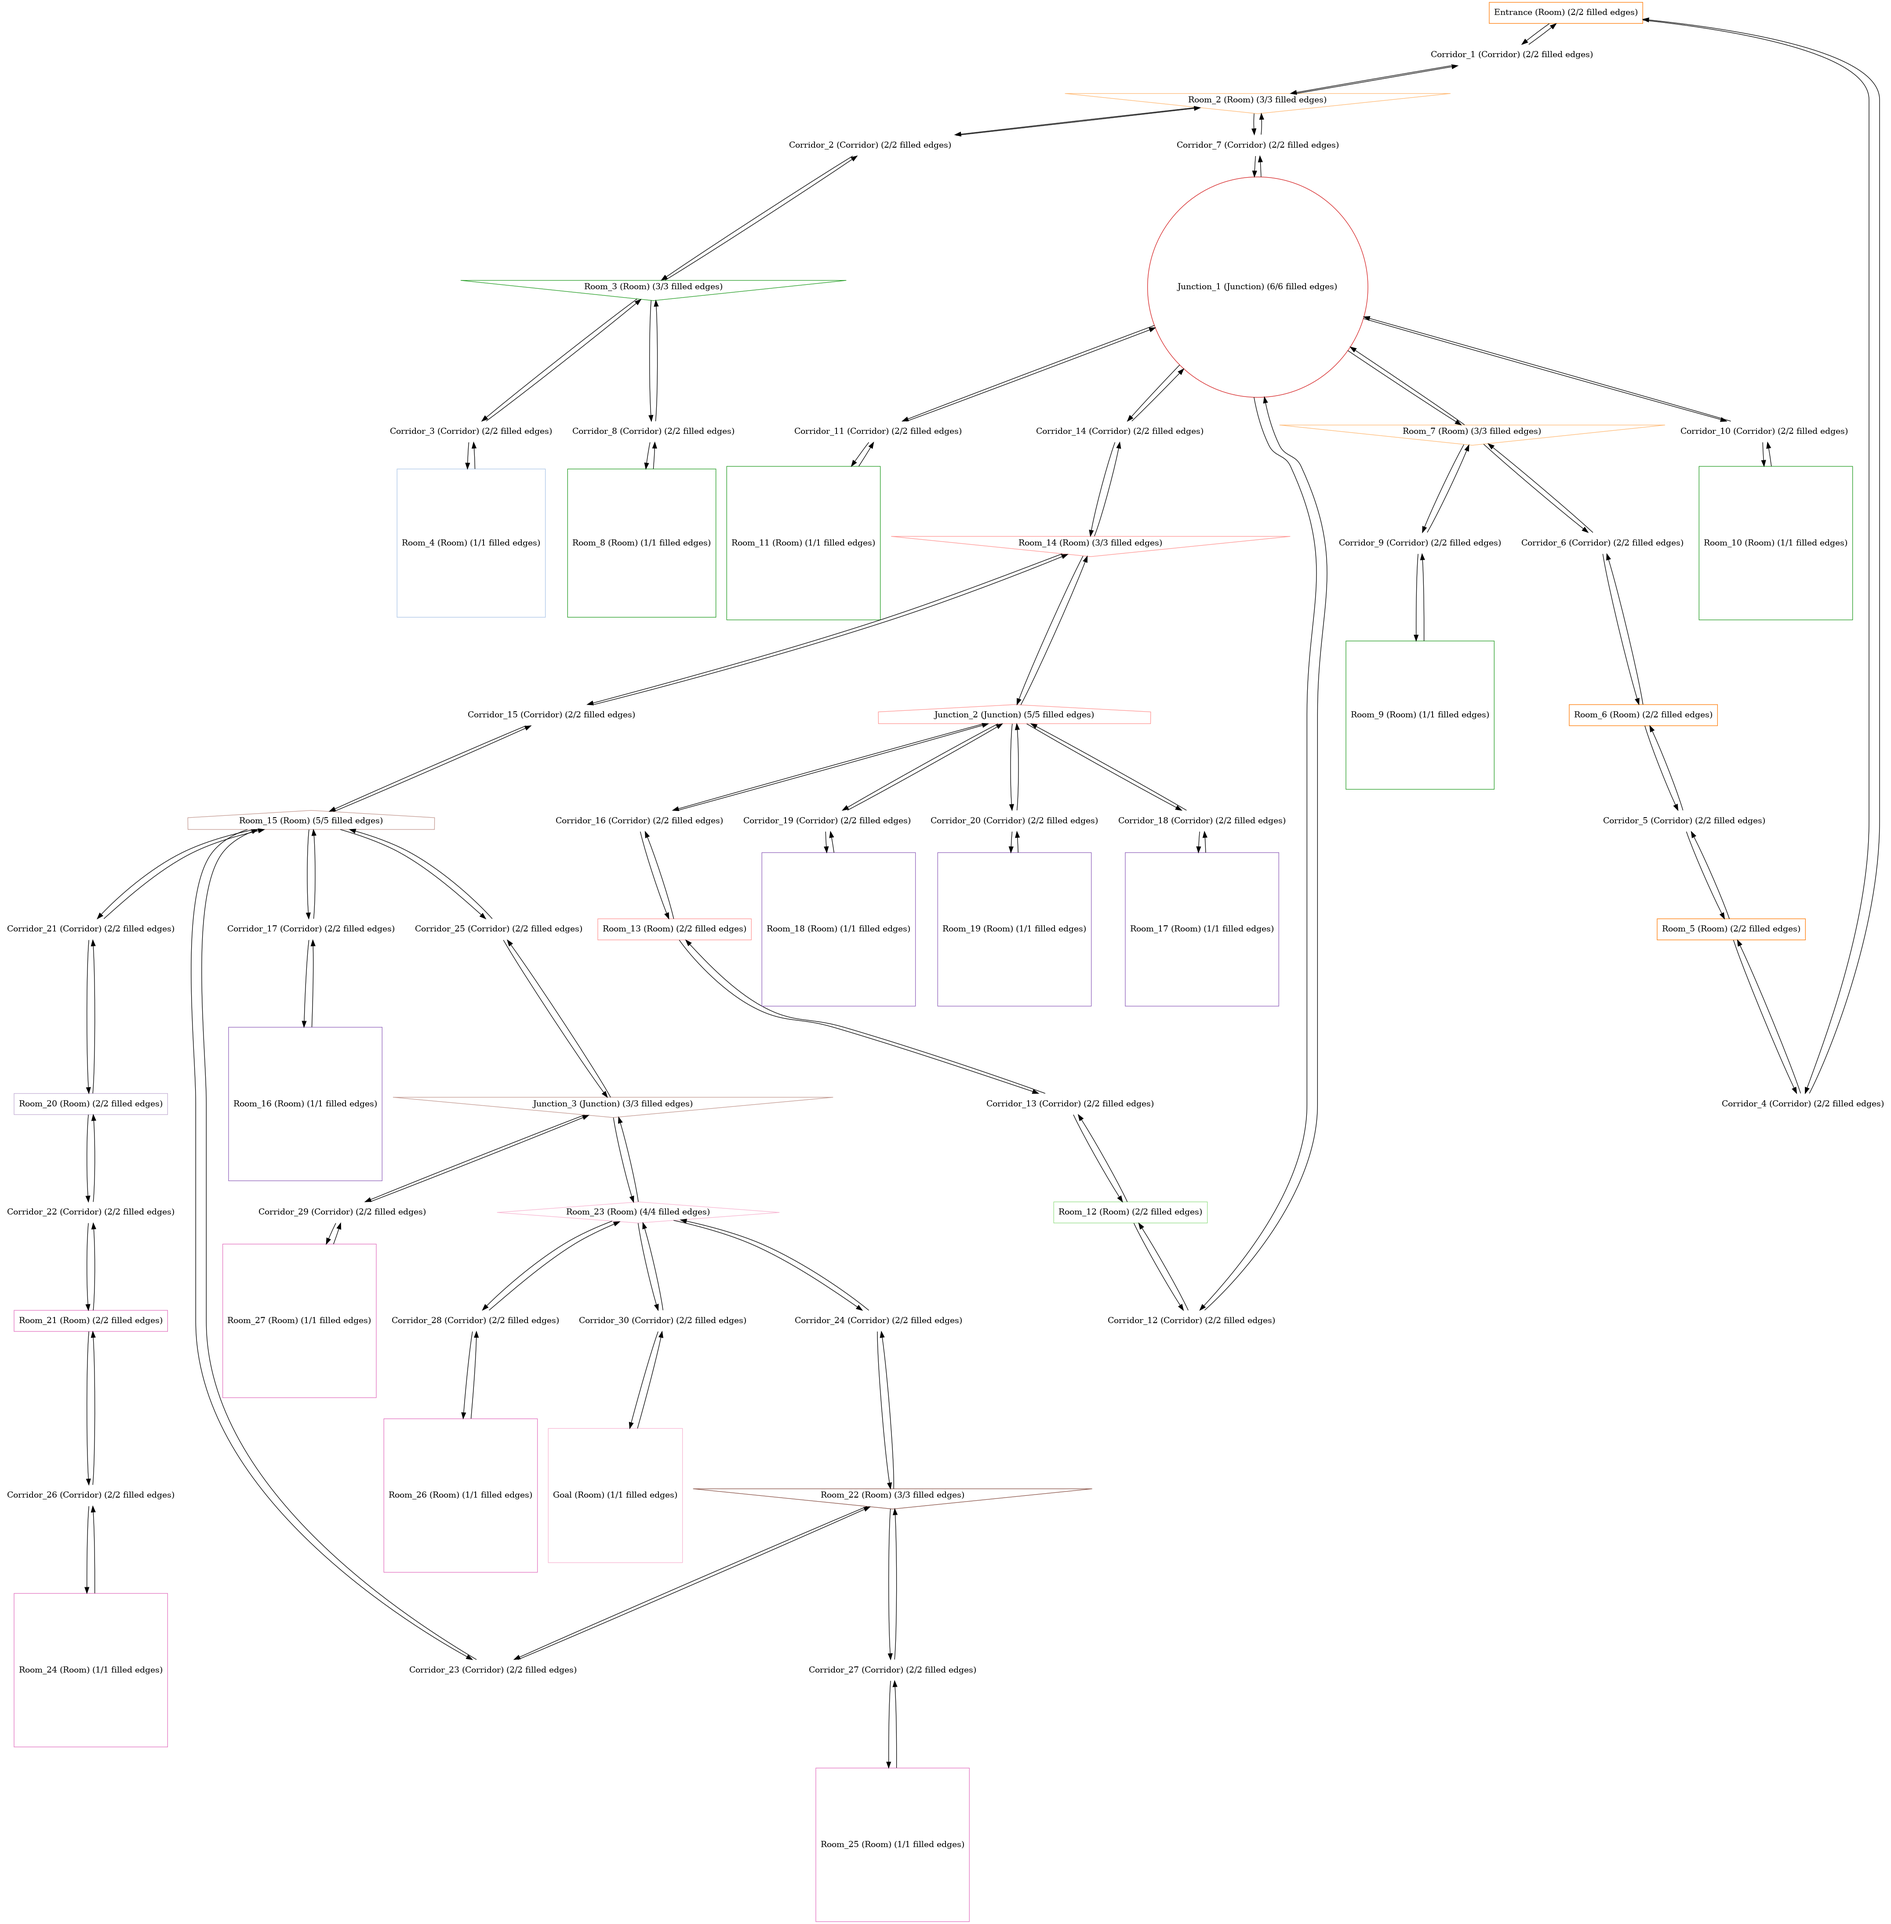
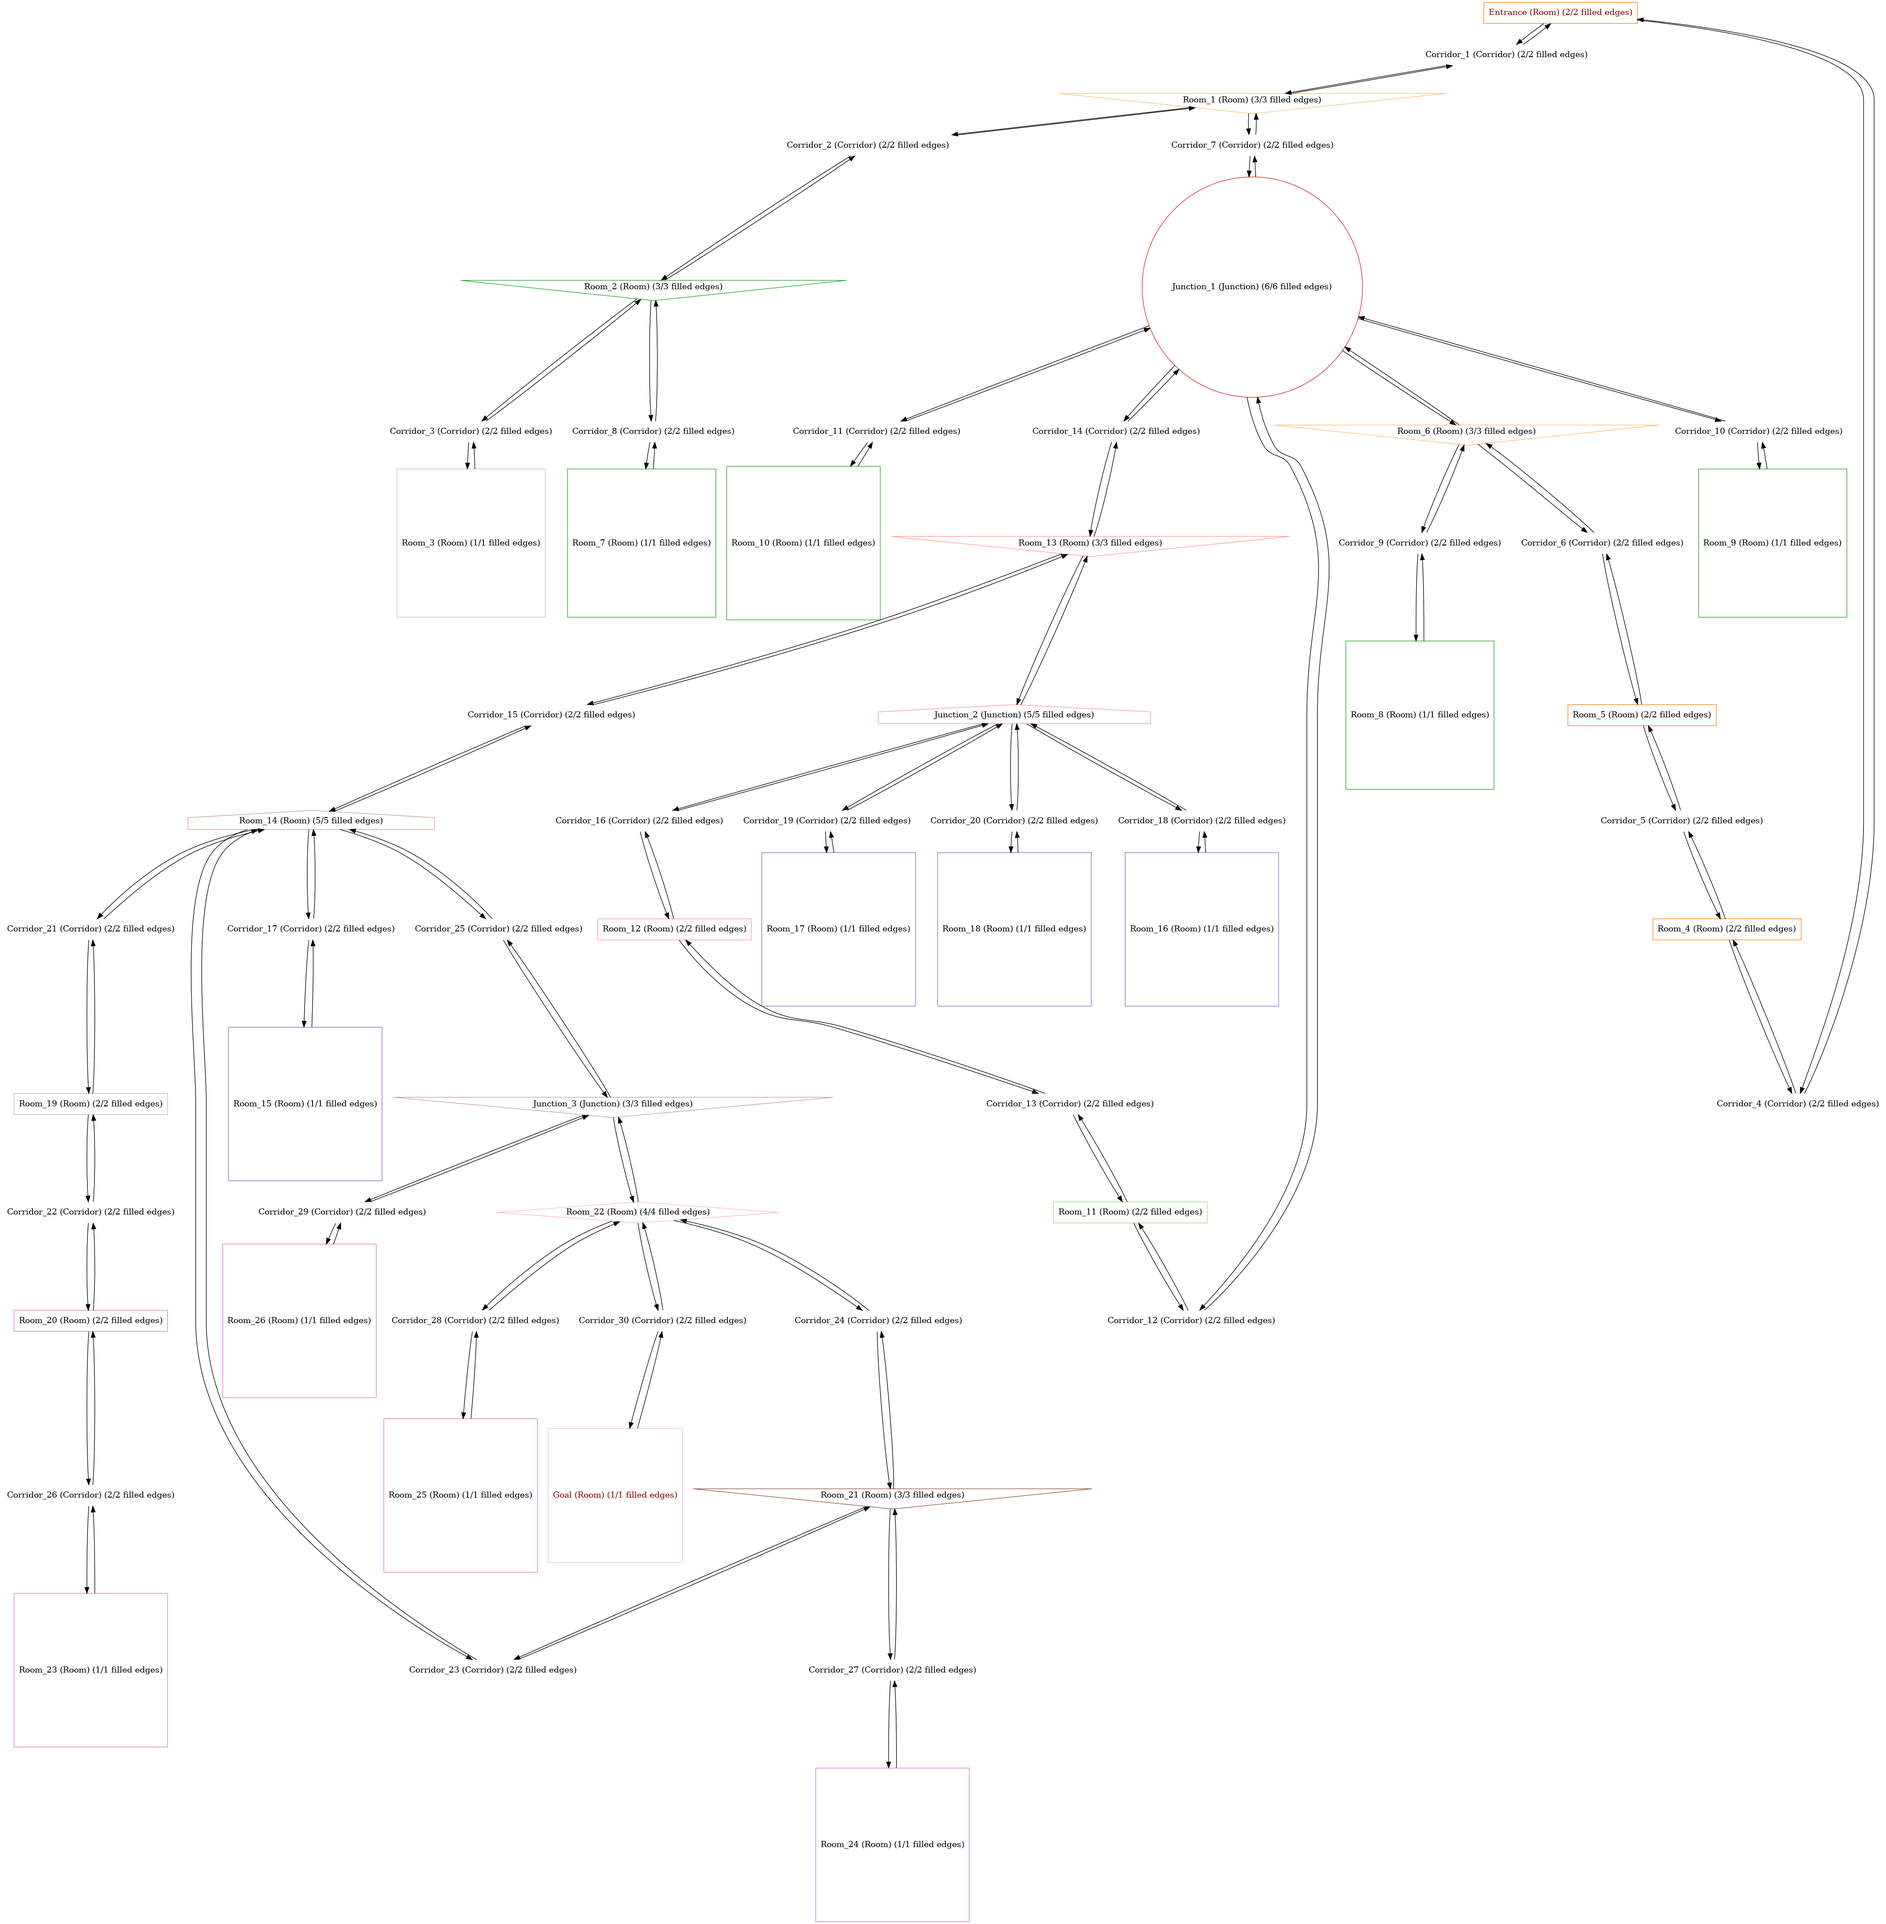
testing multiple seeds, time to move to godot

diff --git a/scripts/dungeon_gen.py b/scripts/dungeon_gen.py
@@ -60,7 +60,7 @@ def count_node_types(chain_dict: Dict[str, nx.MultiDiGraph]) -> Dict[Node, int]:
 
 
 def main():
-    SEED = 420
+    SEED = 69
     np.random.seed(SEED)
     entrance = Room(2)  # min of 2
     entrance.name = "Entrance"
@@ -95,7 +95,7 @@ def main():
         1: (3, 2),
         2: (3, 2),
     }
-    num_iter = 1
+    num_iter = 3
     dungeon, chain_dict = generate_chain_dungeon(num_iter, chain_lengths,
                                                  node_types, node_types,
                                                  chain_prob_matrix,
